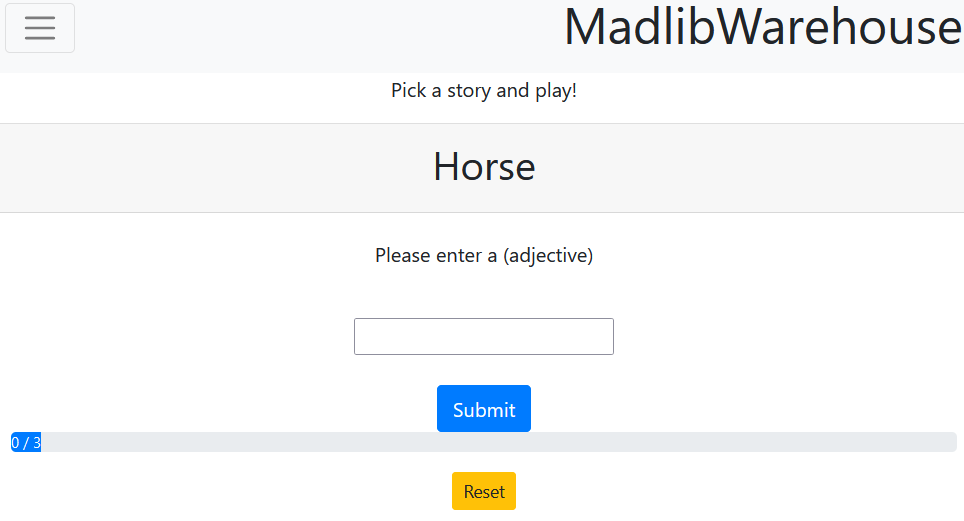
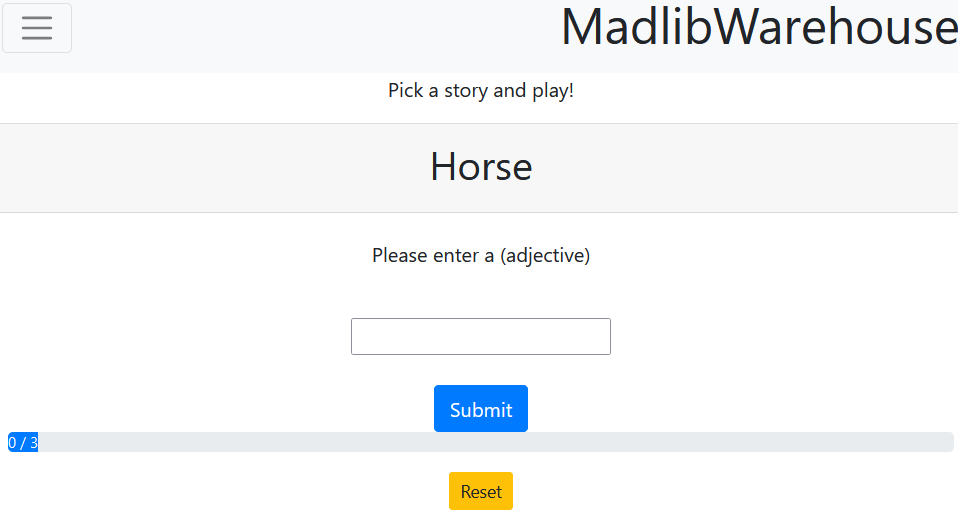
home page img resize

diff --git a/src/components/Home.js b/src/components/Home.js
@@ -21,16 +21,16 @@ function Home(props){
                 <div id="carouselExampleControls" class="carousel slide" data-ride="carousel">
             <div class="carousel-inner">
                 <div class="carousel-item active">
-                <img class="d-block w-100"  src={playimg} alt="First slide"/>
+                <img class="d-block w-100 carouselImg"  src={playimg} alt="First slide"/>
                 </div>
                 <div class="carousel-item">
-                <img class="d-block w-100" src={createimg} alt="Second slide"/>
+                <img class="d-block w-100 carouselImg" src={createimg} alt="Second slide"/>
                 </div>
                 <div class="carousel-item">
-                <img class="d-block w-100" src={shareimg} alt="Third slide"/>
+                <img class="d-block w-100 carouselImg" src={shareimg} alt="Third slide"/>
                 </div>
                 <div class="carousel-item">
-                <img class="d-block w-100" src={profileimg} alt="Fourth slide"/>
+                <img class="d-block w-100 carouselImg" src={profileimg} alt="Fourth slide"/>
                 </div>
             </div>
             <a class="carousel-control-prev" href="#carouselExampleControls" role="button" data-slide="prev">

diff --git a/src/App.css b/src/App.css
@@ -64,3 +64,8 @@
   flex-direction: column;
   align-items: center;
 }
+
+.carouselImg{
+  max-height: 523px;
+  max-width: 958ps
+}
